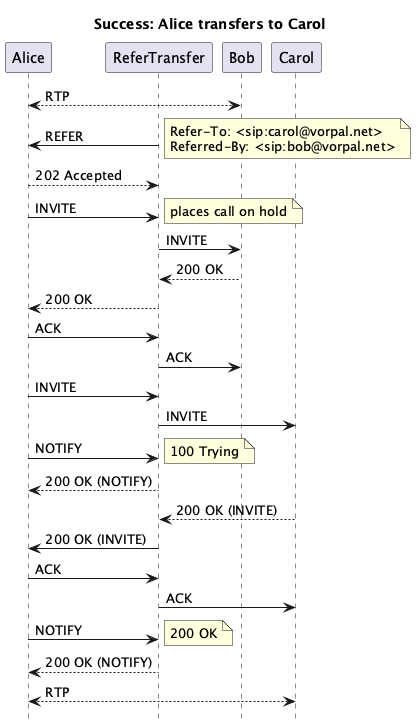
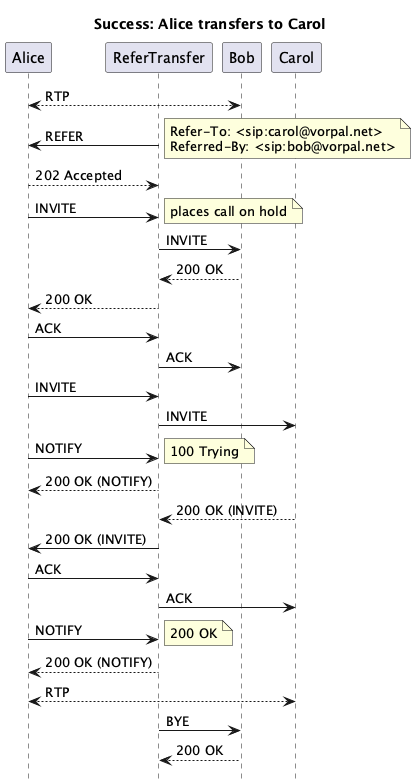
ReferTransfer minor update.

diff --git a/vorpal-blade-library-framework/src/org/vorpal/blade/framework/v2/transfer/ReferTransfer.java b/vorpal-blade-library-framework/src/org/vorpal/blade/framework/v2/transfer/ReferTransfer.java
@@ -161,12 +161,13 @@ public class ReferTransfer extends Transfer {
 						if (sipfrag.contains("100")) {
 							// User is notified that transfer is initiated
 
-							// Set Header X-Original-DN
-							URI xOriginalDN = (URI) targetRequest.getApplicationSession().getAttribute("X-Original-DN");
-							targetRequest.setHeader("X-Original-DN", xOriginalDN.toString());
-							// Set Header X-Previous-DN
-							URI xPreviousDN = (URI) targetRequest.getApplicationSession().getAttribute("X-Previous-DN");
-							targetRequest.setHeader("X-Previous-DN", xPreviousDN.toString());
+// Bogus!
+//							// Set Header X-Original-DN
+//							URI xOriginalDN = (URI) targetRequest.getApplicationSession().getAttribute("X-Original-DN");
+//							targetRequest.setHeader("X-Original-DN", xOriginalDN.toString());
+//							// Set Header X-Previous-DN
+//							URI xPreviousDN = (URI) targetRequest.getApplicationSession().getAttribute("X-Previous-DN");
+//							targetRequest.setHeader("X-Previous-DN", xPreviousDN.toString());
 
 							transferListener.transferInitiated(transfereeRequest);
 						} else if (sipfrag.contains("200")) {
@@ -178,7 +179,10 @@ public class ReferTransfer extends Transfer {
 							SipSession caller = Callflow.getLinkedSession(callee);
 							caller.setAttribute("userAgent", "caller");
 							URI referTo2 = (URI) referResponse.getApplicationSession().getAttribute("Refer-To");
-							referResponse.getApplicationSession().setAttribute("X-Previous-DN", referTo2);
+
+							if (referTo2 != null) {
+								referResponse.getApplicationSession().setAttribute("X-Previous-DN", referTo2);
+							}
 
 							transferListener.transferCompleted(referResponse);
 							sendRequest(transferorSession.createRequest(BYE));

diff --git a/vorpal-blade-library-framework/src/org/vorpal/blade/framework/v2/callflow/Callback.java b/vorpal-blade-library-framework/src/org/vorpal/blade/framework/v2/callflow/Callback.java
@@ -33,11 +33,13 @@ public interface Callback<T> extends Consumer<T>, Serializable {
 	@Override
 	default void accept(final T elem) {
 		try {
-			acceptThrows(elem);
-		} catch (final IllegalStateException ex) {
-			// Sometimes this happens, no idea why. Eat it.
-		} catch (final Exception ex) {
-			throw new RuntimeException(ex);
+
+			if (elem != null) {
+				acceptThrows(elem);
+			}
+
+		} catch (Exception ex) {
+			Callflow.getSipLogger().severe(ex);
 		}
 	}
 
